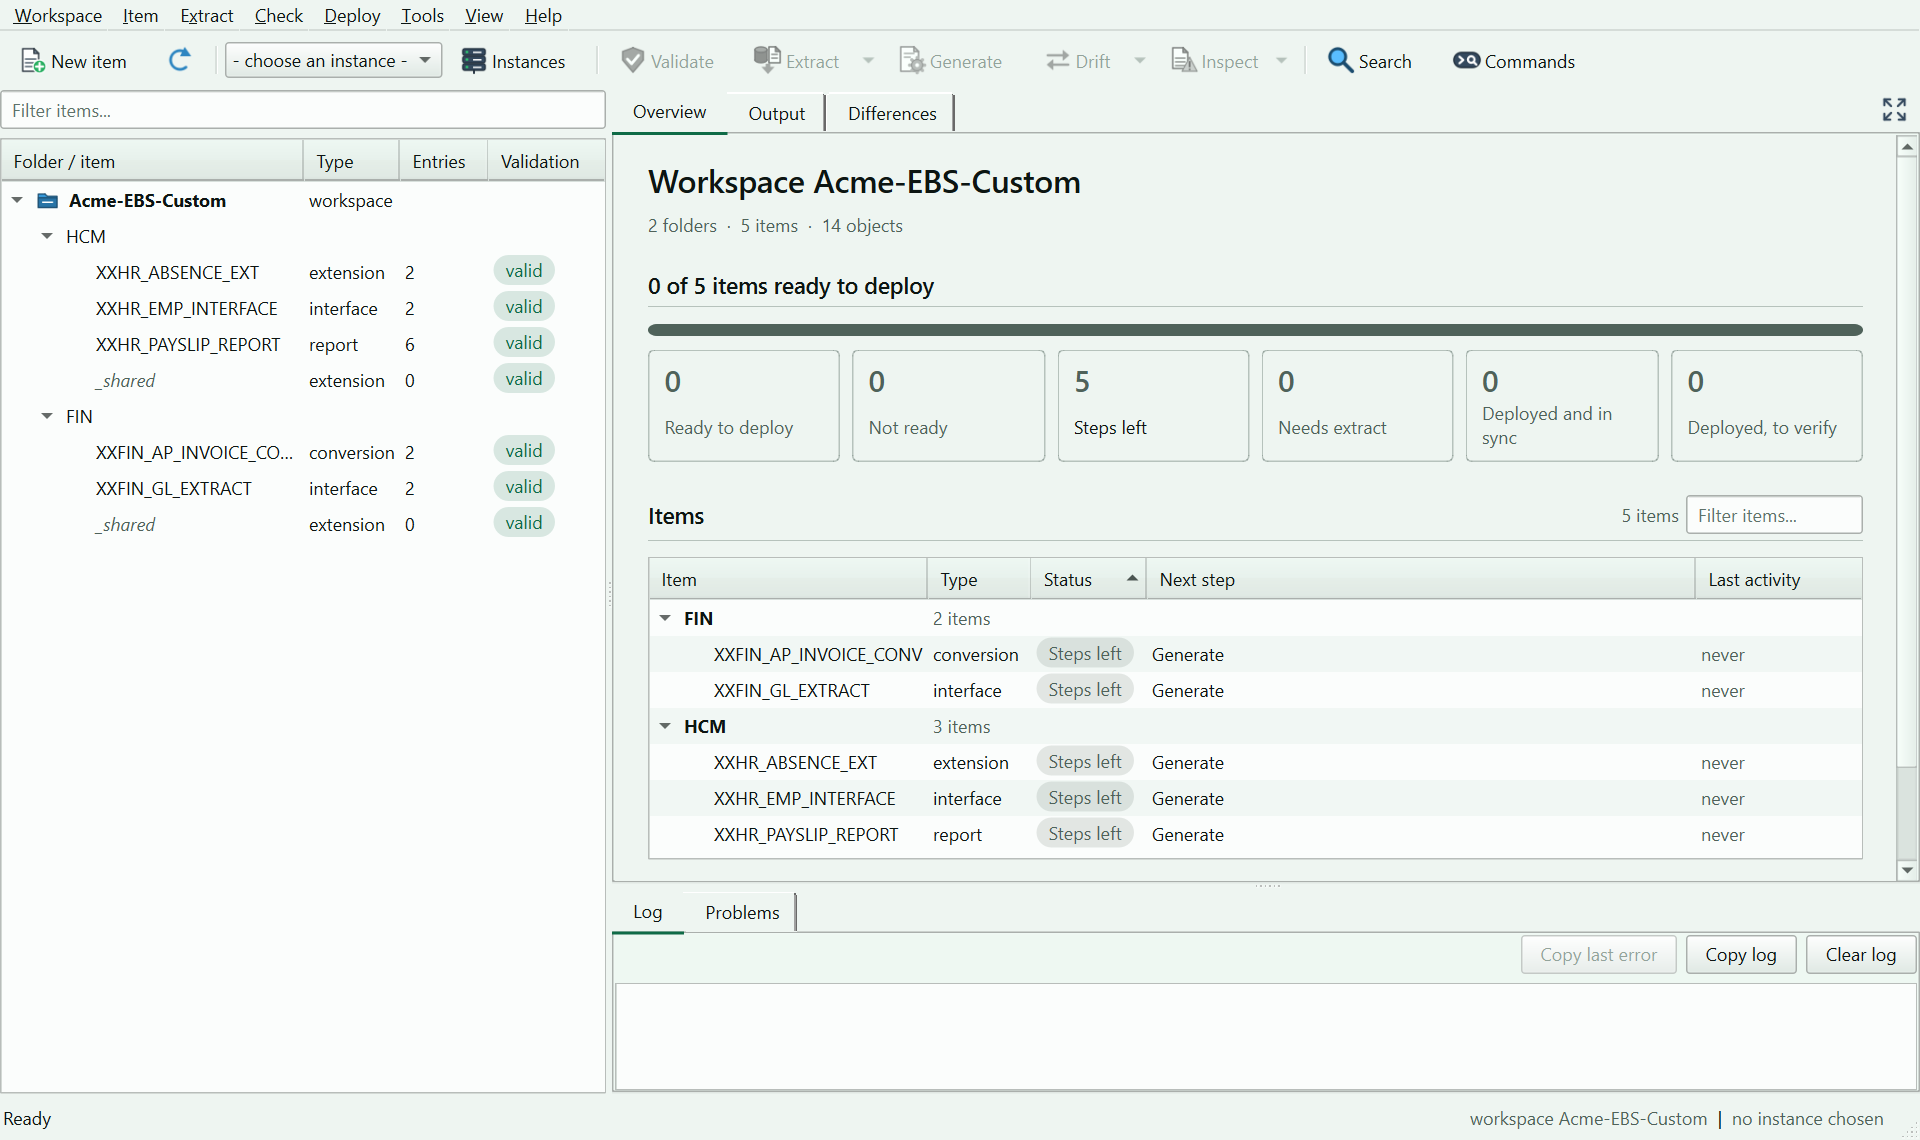
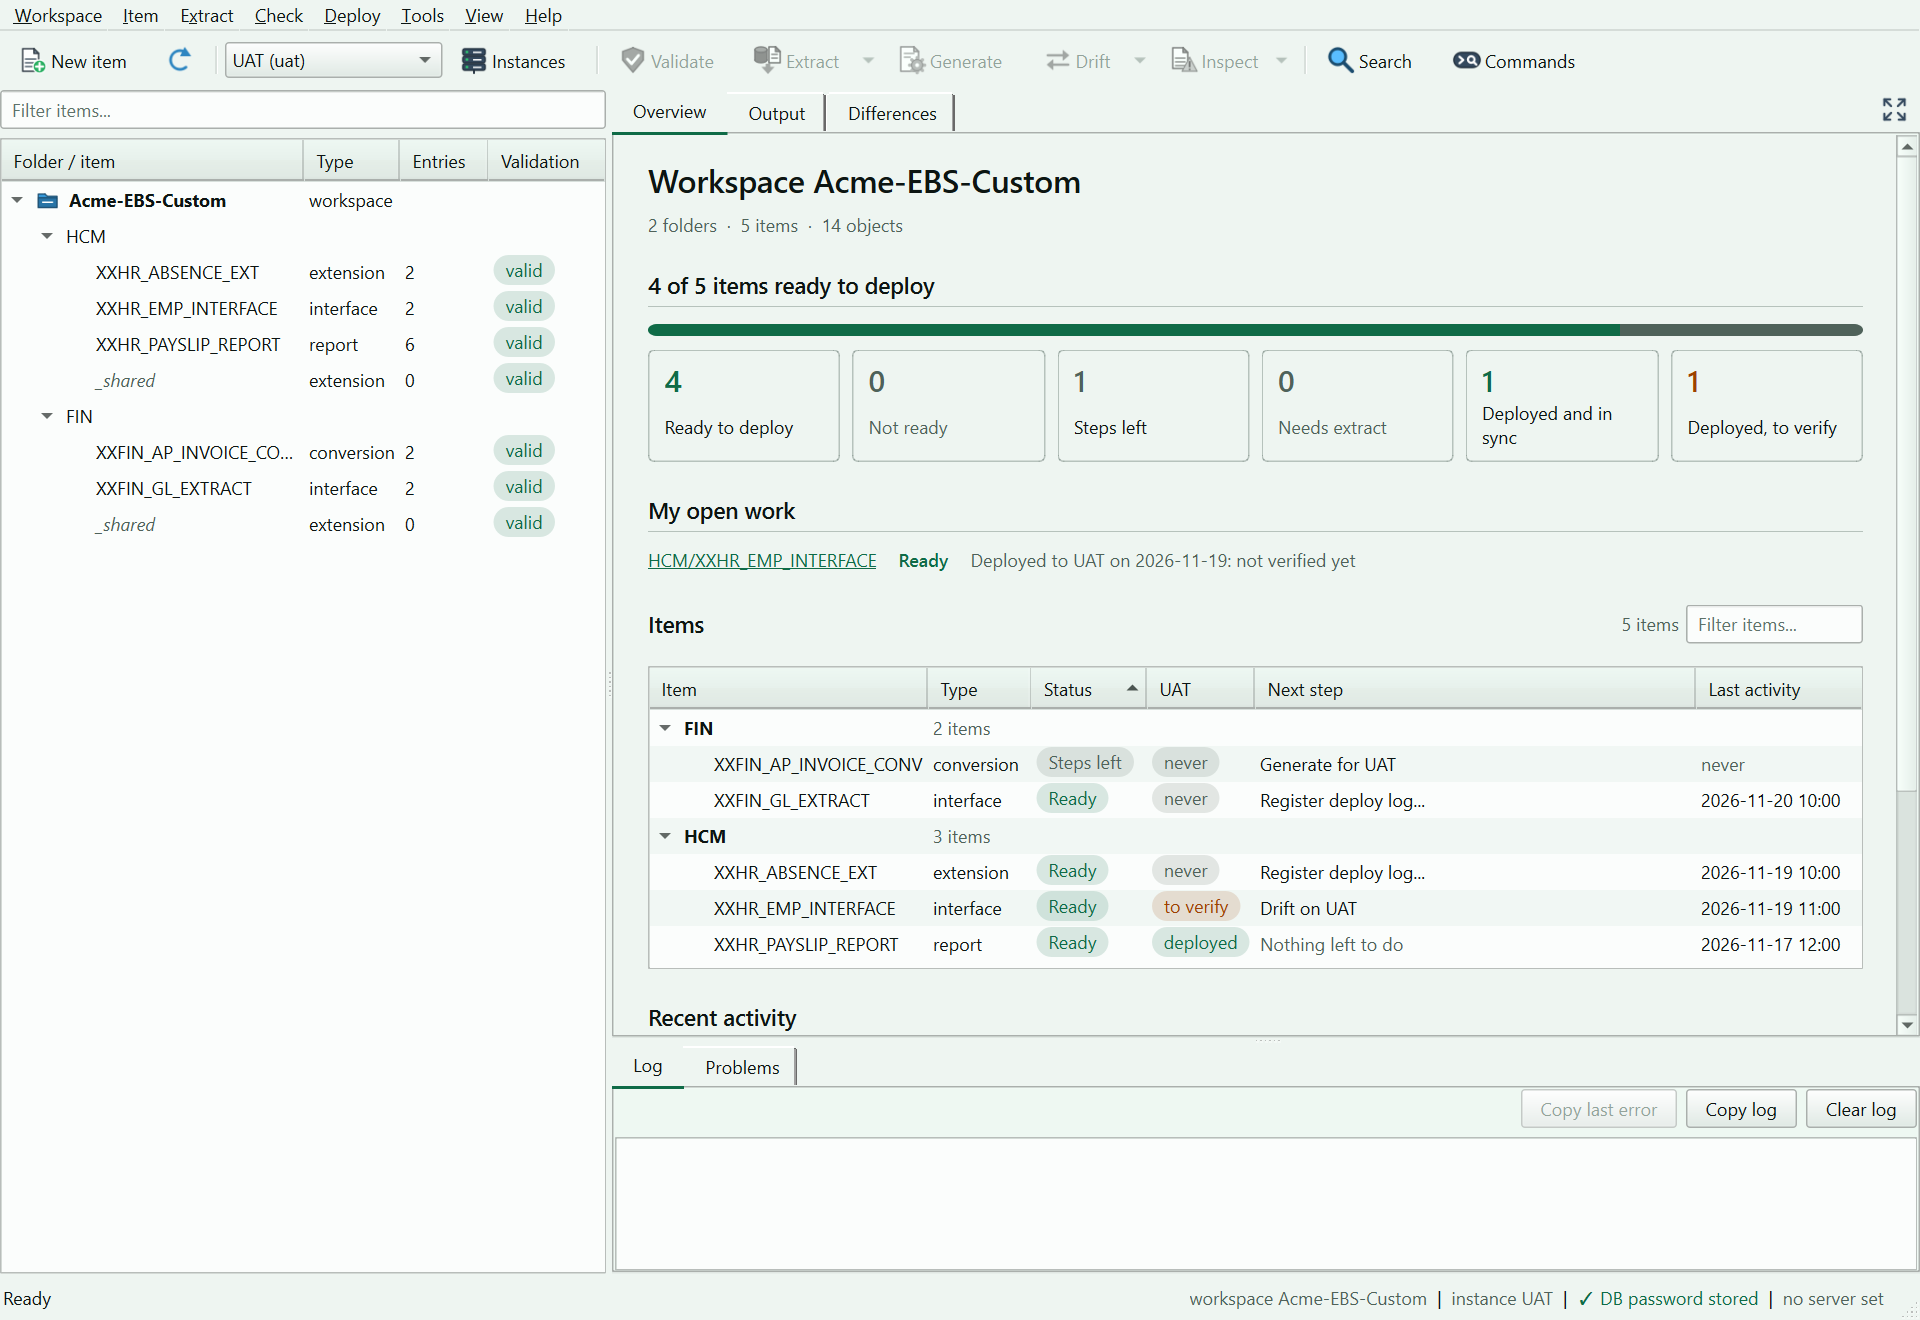
Main window screenshot of 1.3: UAT chosen, items in every state

diff --git a/index.html b/index.html
@@ -304,9 +304,9 @@ footer .ver{font-family:var(--mono);font-size:.82rem}
     </div>
   </div>
   <figure class="shot">
-    <img src="assets/guide-window.png" width="1920" height="1140" alt="The Anvil window: a workspace tree of folders and items on the left, and an overview showing how many items are ready to deploy on the right">
+    <img src="assets/guide-window.png?v=1.3.0" width="1920" height="1320" alt="The Anvil window: a workspace tree of folders and items on the left, and an overview showing how many items are ready to deploy on the right">
   </figure>
-  <p class="caption">The main window with a demo workspace: folders and items on the left, what is ready to deploy on the right.</p>
+  <p class="caption">The main window with a demo workspace and UAT chosen: folders and items on the left; on the right, what is ready to deploy, deployed and verified on UAT.</p>
 </div>
 
 <section aria-labelledby="h-rules" style="margin-top:64px">
